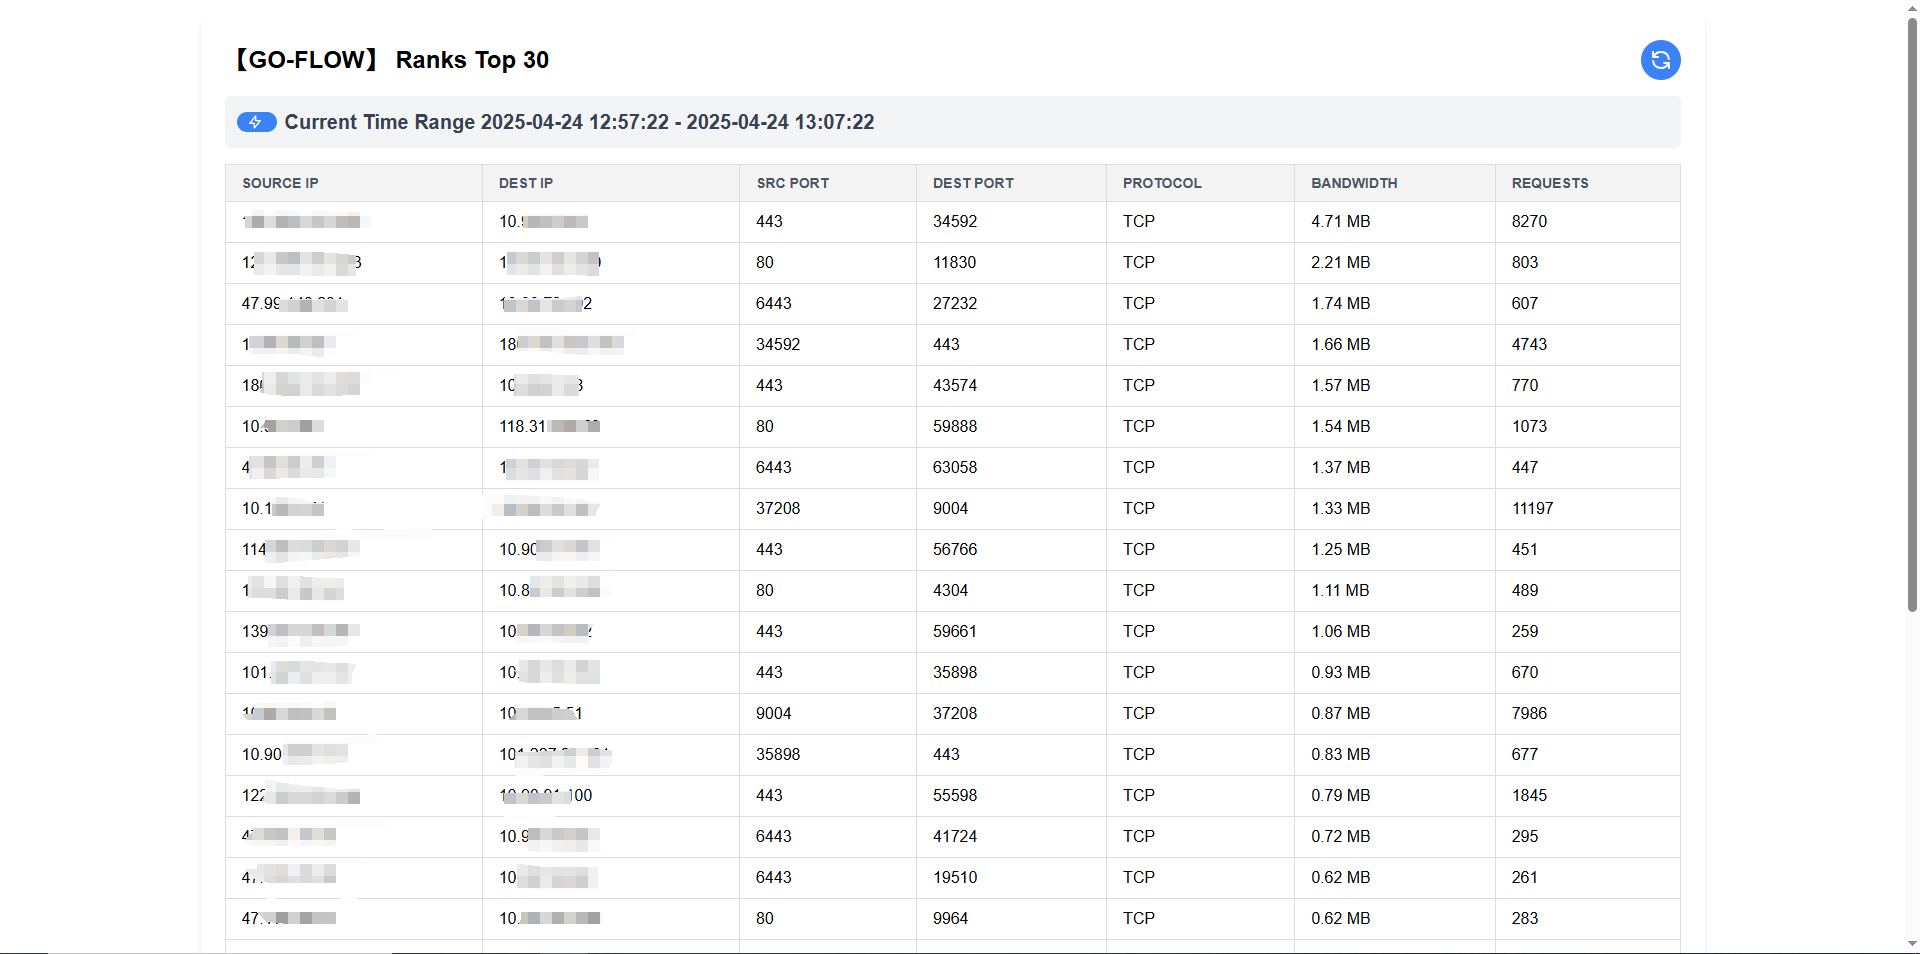
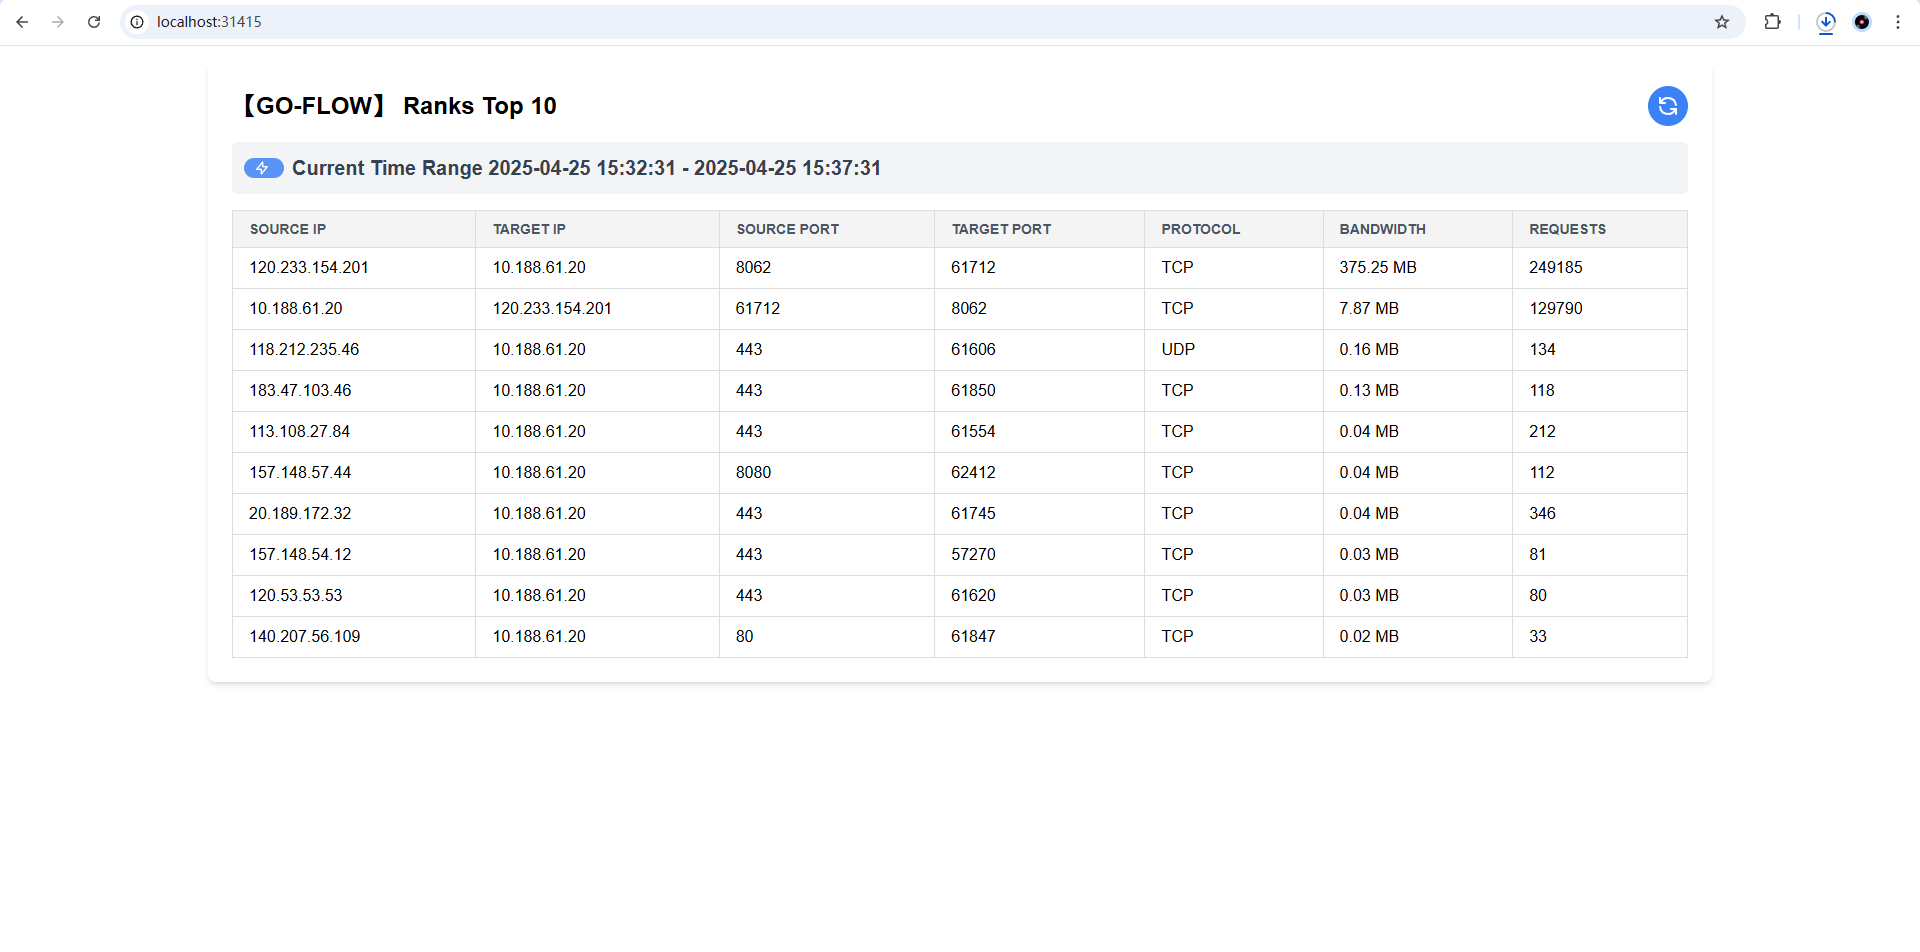
feat: embed index.html and static files using embed.FS

diff --git a/index.html b/index.html
@@ -166,9 +166,9 @@
                             <thead>
                             <tr className="bg-gray-200 text-gray-600 uppercase text-sm">
                                 <th className="py-2 px-4 border">Source IP</th>
-                                <th className="py-2 px-4 border">Dest IP</th>
-                                <th className="py-2 px-4 border">Src Port</th>
-                                <th className="py-2 px-4 border">Dest Port</th>
+                                <th className="py-2 px-4 border">Target IP</th>
+                                <th className="py-2 px-4 border">Source Port</th>
+                                <th className="py-2 px-4 border">Target Port</th>
                                 <th className="py-2 px-4 border">Protocol</th>
                                 <th className="py-2 px-4 border">Bandwidth</th>
                                 <th className="py-2 px-4 border">Requests</th>

diff --git a/main.go b/main.go
@@ -3,6 +3,7 @@ package main
 import (
 	"container/heap"
 	"context"
+	"embed"
 	"flag"
 	"fmt"
 	"github.com/google/gopacket"
@@ -14,7 +15,6 @@ import (
 	"go.uber.org/zap/zapcore"
 	"hash/fnv"
 	"net/http"
-	_ "net/http/pprof"
 	"os"
 	"os/signal"
 	"sort"
@@ -22,6 +22,10 @@ import (
 	"syscall"
 	"time"
 )
+
+//go:embed index.html
+//go:embed static/*
+var content embed.FS
 
 const (
 	timeLayout = "2006-01-02 15:04:05"
@@ -267,7 +271,17 @@ func (w *Window) ServeHTTP(wr http.ResponseWriter, r *http.Request) {
 		}
 		return
 	}
-	http.ServeFile(wr, r, "index.html")
+	if r.URL.Path == "/" {
+		file, err := content.ReadFile("index.html")
+		if err != nil {
+			http.Error(wr, "Failed to read index.html", http.StatusInternalServerError)
+			return
+		}
+		wr.Header().Set("Content-Type", "text/html")
+		_, _ = wr.Write(file)
+		return
+	}
+	http.FileServer(http.FS(content)).ServeHTTP(wr, r)
 }
 
 func getUnitFactor(unit string) float64 {
@@ -309,20 +323,6 @@ func capture(ctx context.Context, device string, pool *async.WorkerPool, w *Wind
 	if err = handle.SetBPFFilter("tcp or udp"); err != nil {
 		panic(err)
 	}
-	//go func() {
-	//	ticker := time.NewTicker(10 * time.Second)
-	//	for {
-	//		select {
-	//		case <-ctx.Done():
-	//			ticker.Stop()
-	//			return
-	//		case <-ticker.C:
-	//			stats, _ := handle.Stats()
-	//			zap.S().Infof("Packets: Received=%d, Dropped=%d, IfDropped=%d",
-	//				stats.PacketsReceived, stats.PacketsDropped, stats.PacketsIfDropped)
-	//		}
-	//	}
-	//}()
 	packetSource := gopacket.NewPacketSource(handle, handle.LinkType())
 	ticker := time.NewTicker(time.Minute)
 	defer func() {
@@ -438,7 +438,6 @@ func main() {
 
 	mux := http.NewServeMux()
 	mux.Handle("/", window)
-	mux.Handle("/static/", http.StripPrefix("/static/", http.FileServer(http.Dir("static"))))
 	server := &http.Server{
 		Addr:    fmt.Sprintf(":%d", port),
 		Handler: mux,
@@ -449,7 +448,6 @@ func main() {
 	go window.StartCacheUpdate(ctx, &pool.Wg)
 	go capture(ctx, *eth, pool, window)
 	go func() {
-		defer pool.Wg.Done()
 		if err := http.ListenAndServe(fmt.Sprintf(":%d", port-1), nil); err != nil {
 			pool.Logger.Printf("pprof: %s", fmt.Sprintf("pprof err: %v", err))
 		}
